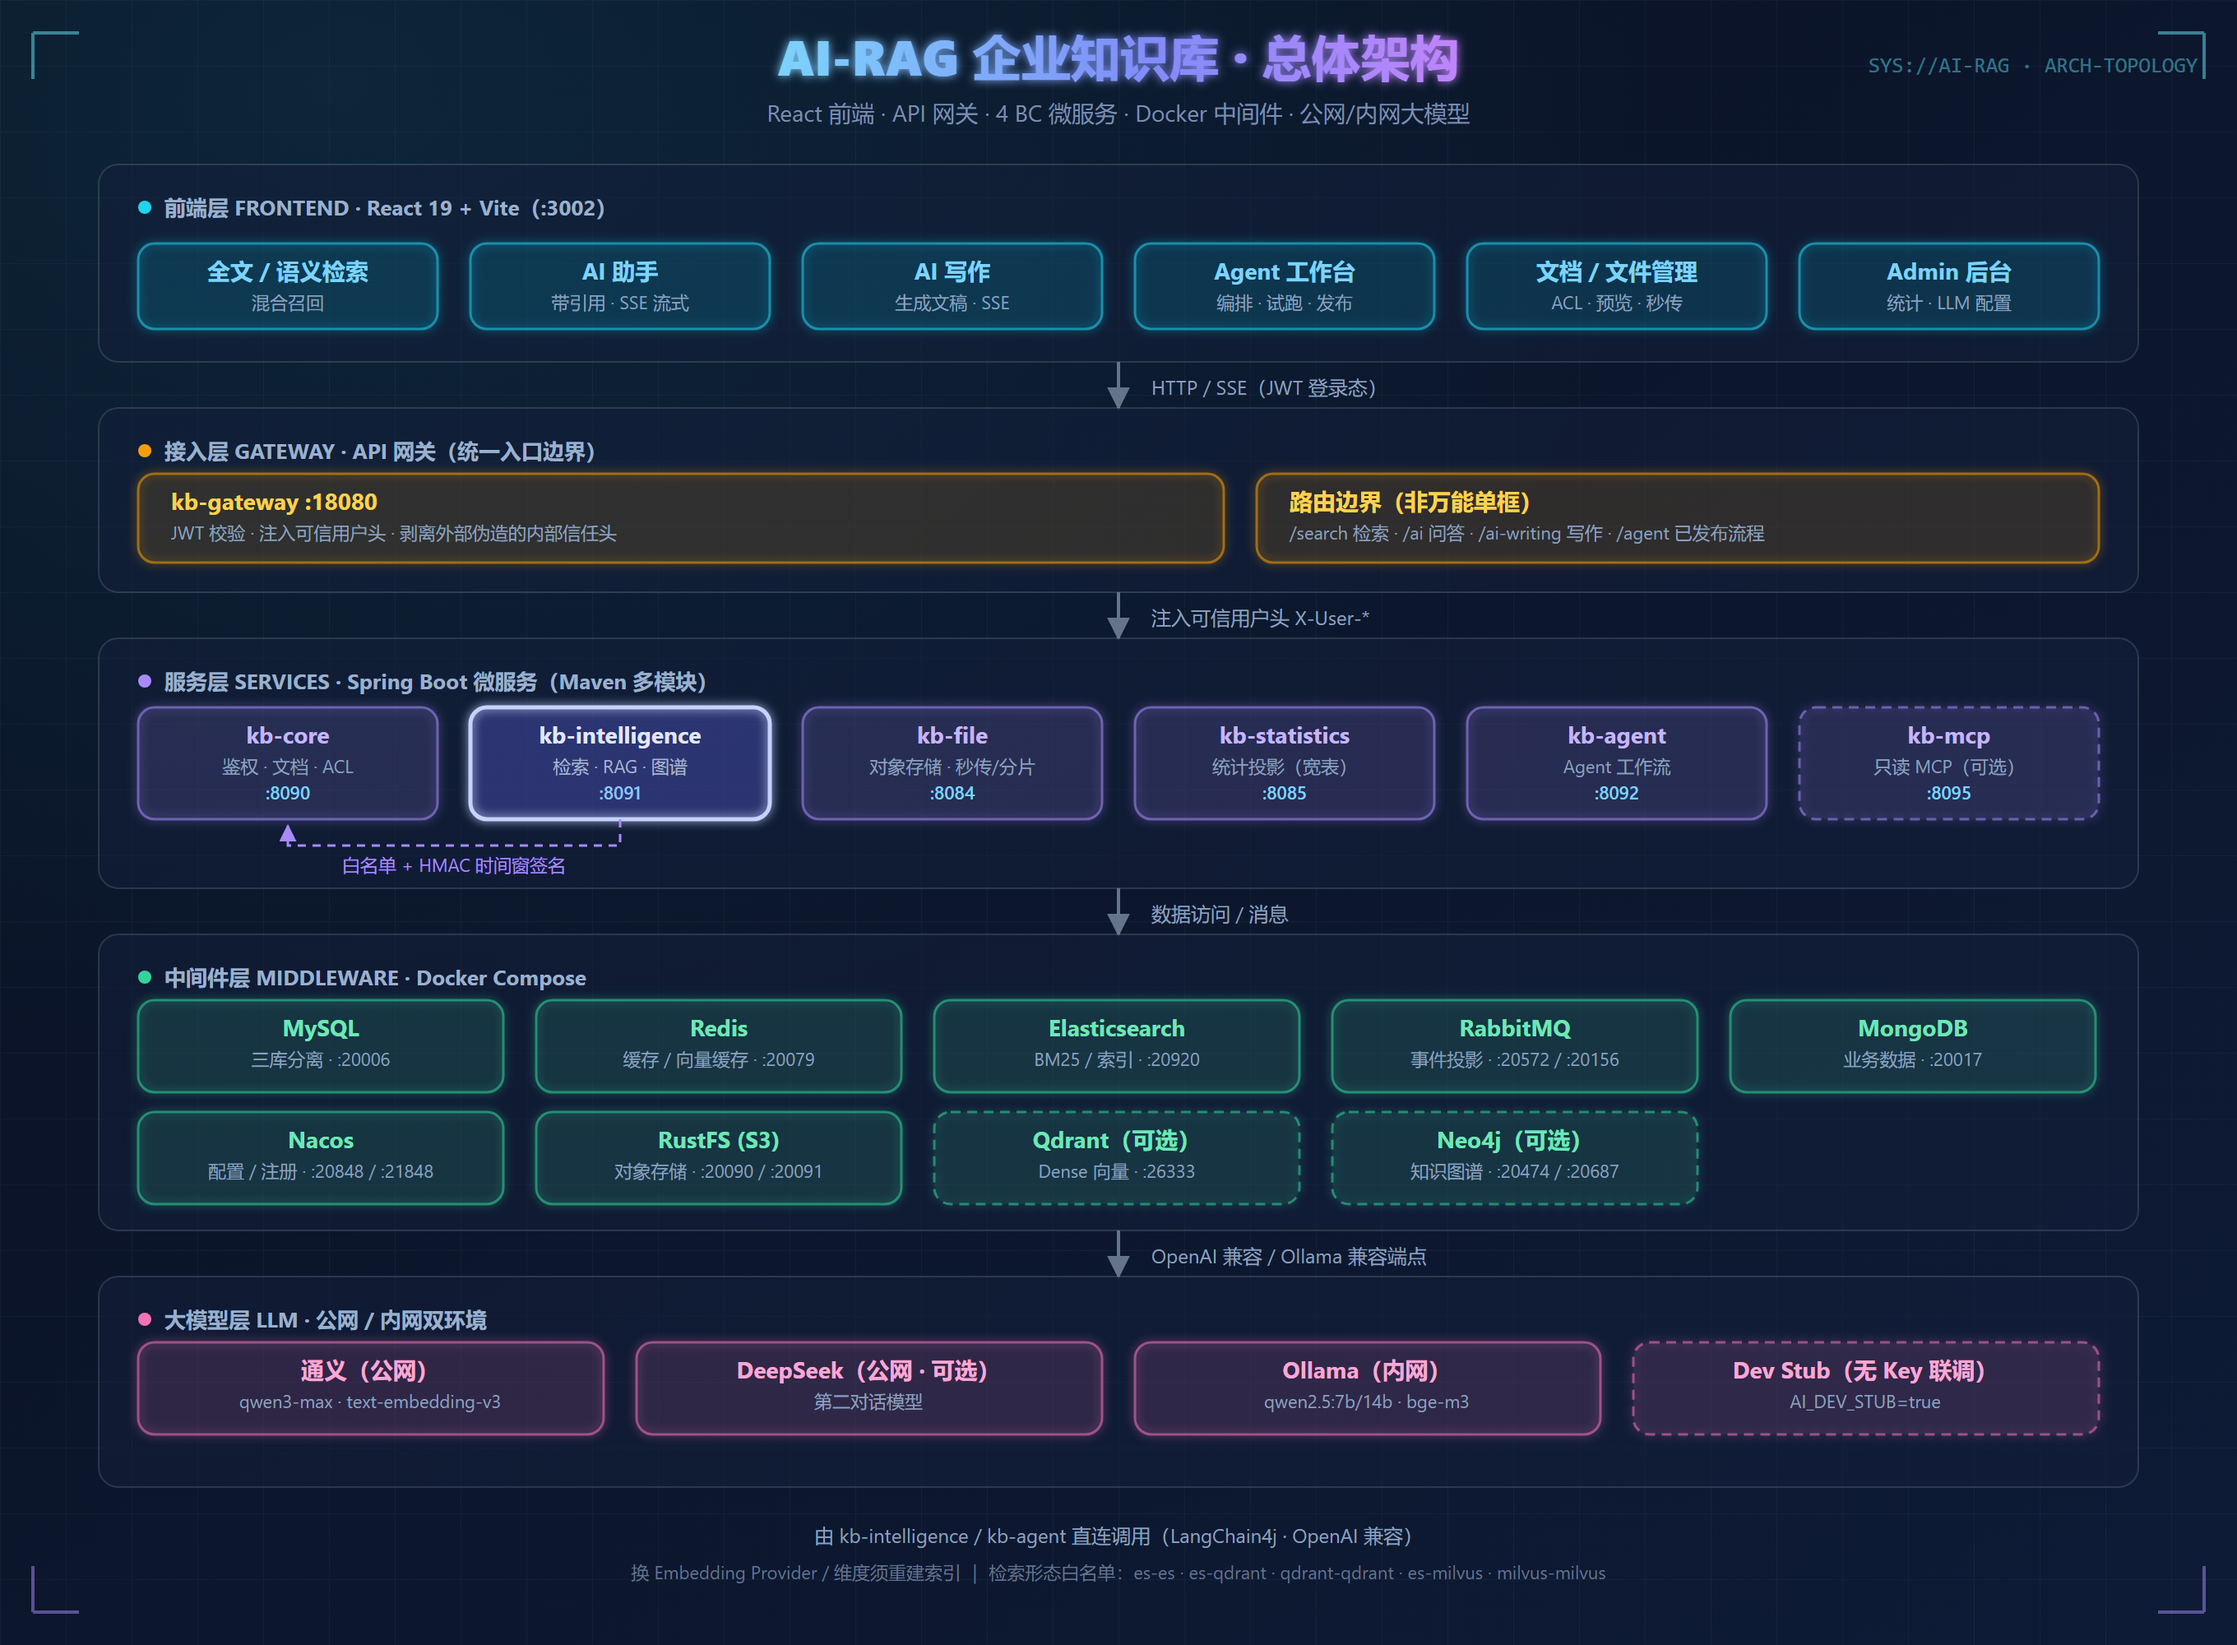
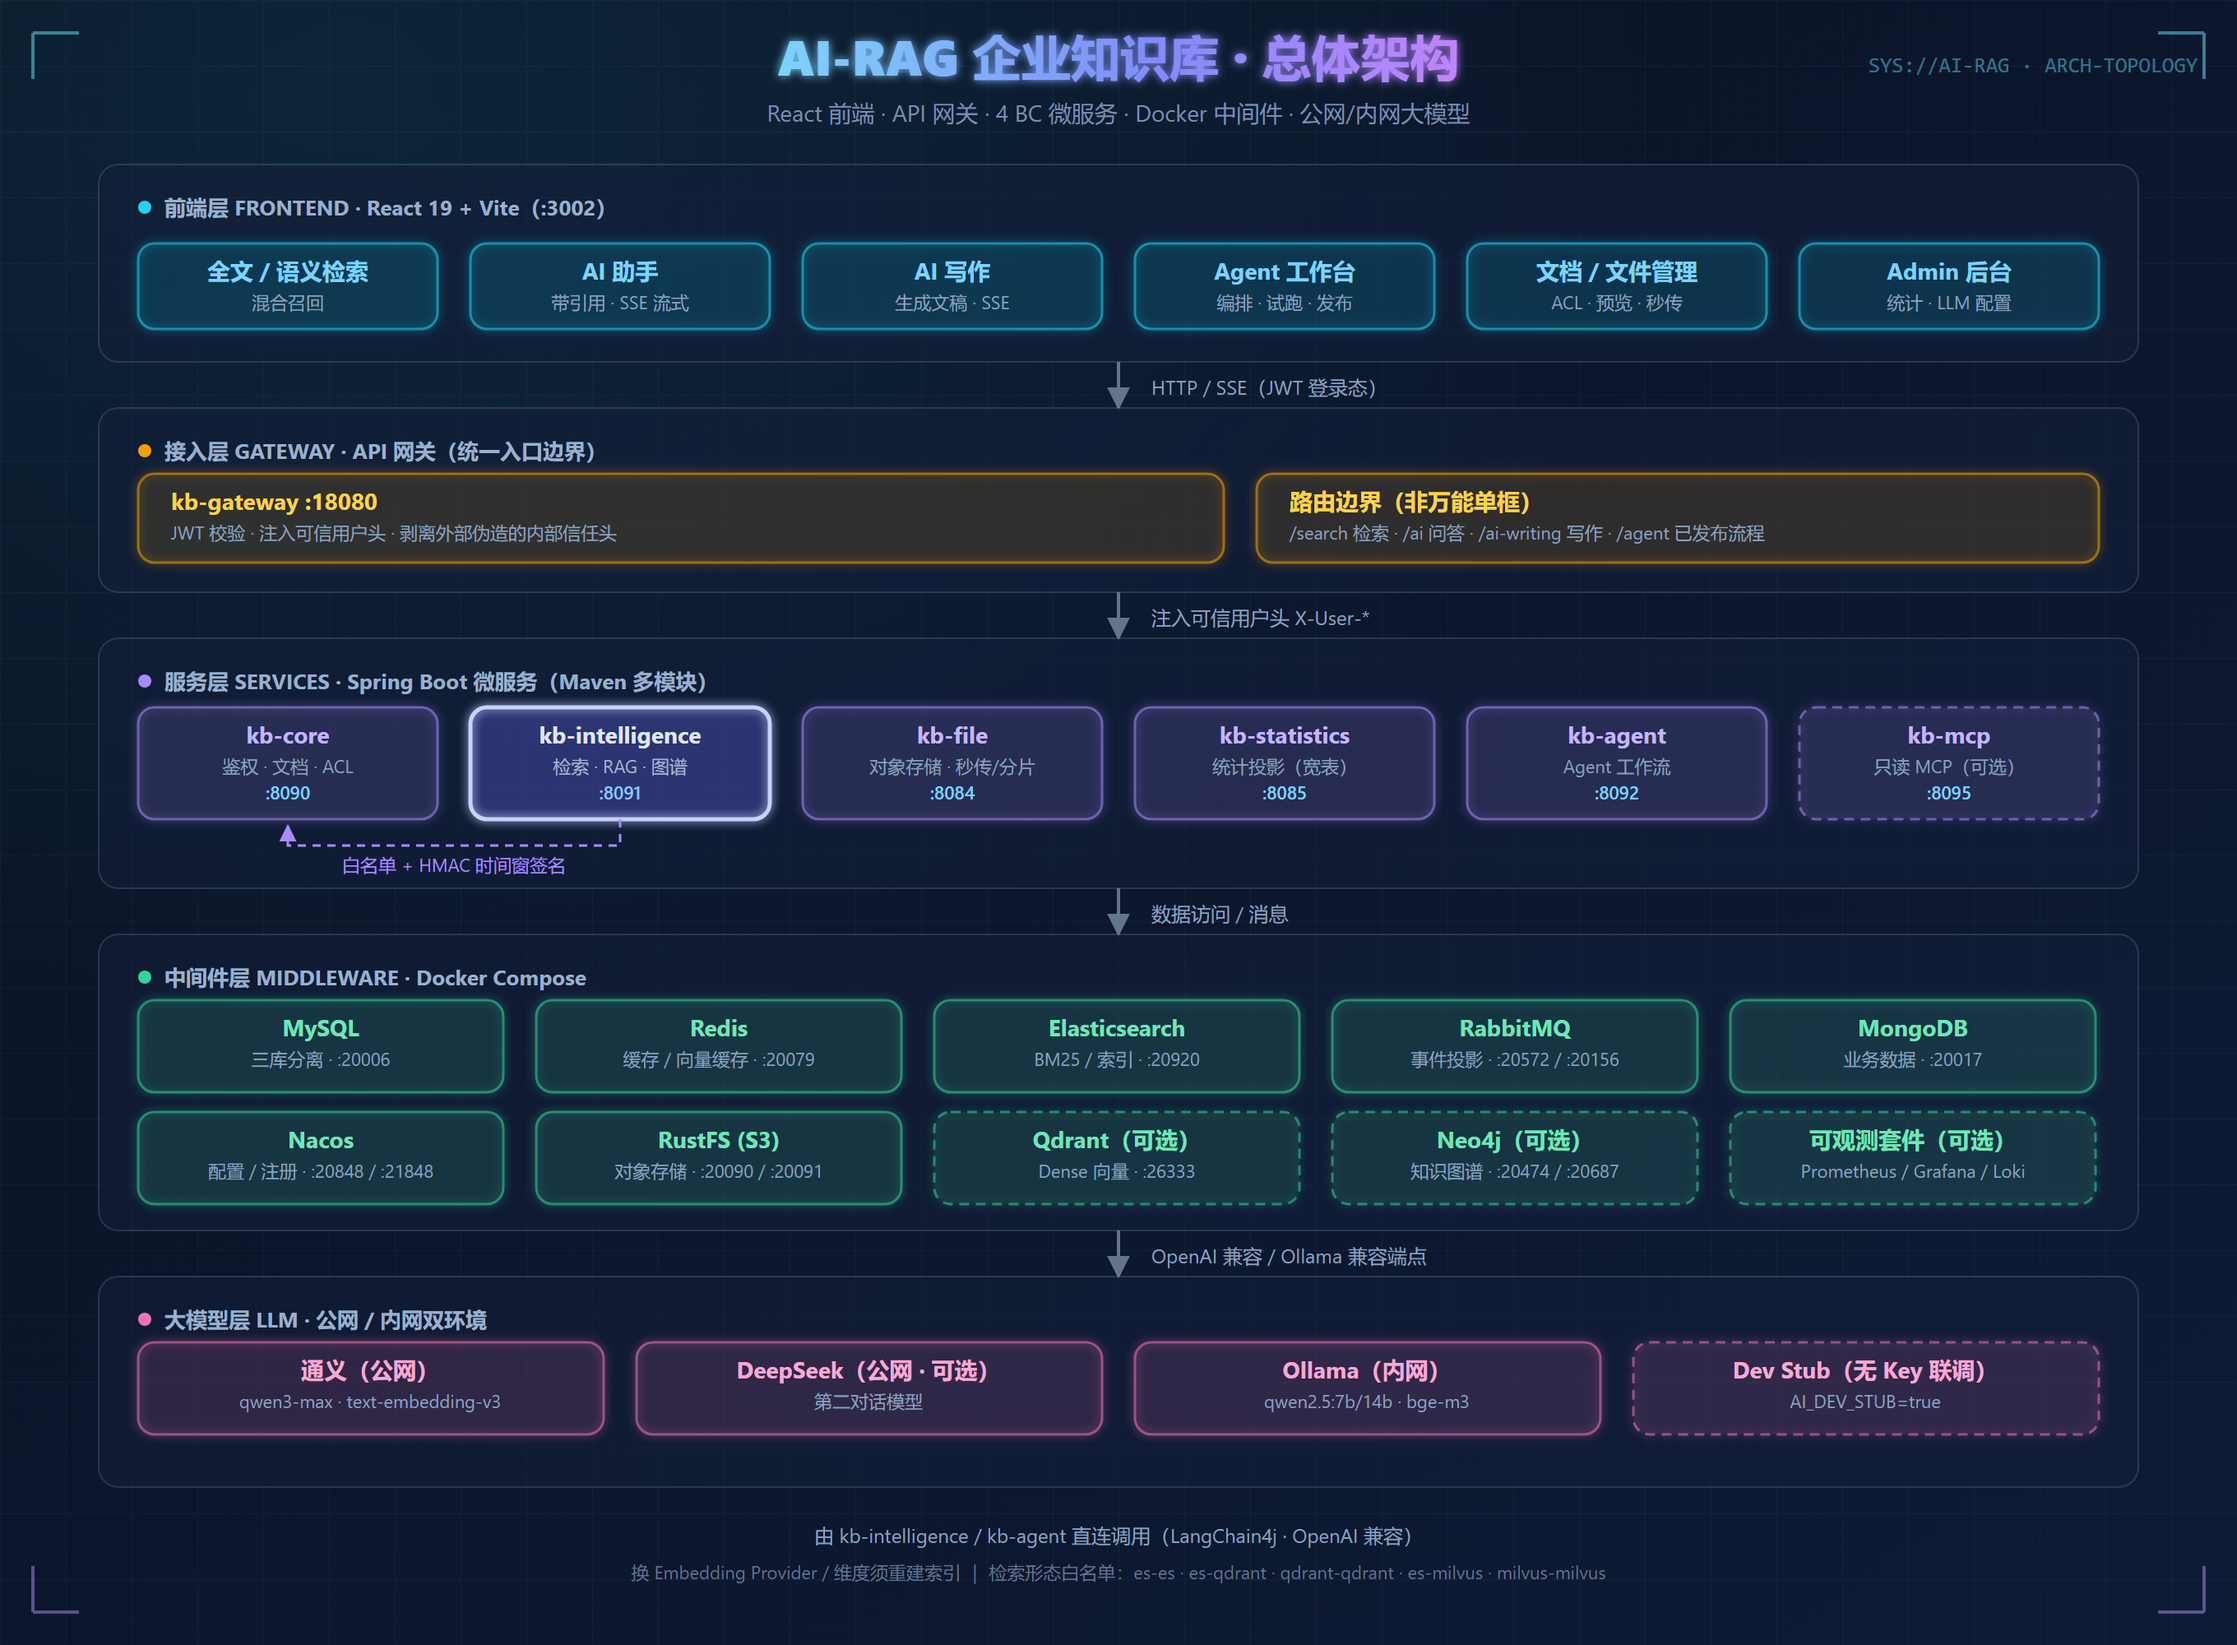
docs: 架构图同步可观测性 —— 总体架构补可观测套件、部署拓扑补 SkyWalking/Prometheus/Grafana/Loki 端口，README 端口表与能力清单同步

Changed region(s): [[0.75, 0.651, 0.9375, 0.744]]

diff --git a/readme.md b/readme.md
@@ -238,6 +238,7 @@ docker compose --profile observability --env-file .env up -d
 | Neo4j（可选） | **20474** / Bolt **20687** | neo4j；图谱可重建 |
 | Qdrant（可选） | HTTP **26333** / gRPC **26334** | 默认不随 setup 强制启动 |
 | SkyWalking（可选 APM） | OAP **11800** / HTTP **12800** · UI **38080** | 链路追踪；启用方式见[核心能力详解](#-核心能力详解) |
+| Prometheus / Grafana（observability） | **29090** / **23000**（Loki 无宿主端口） | 指标、仪表盘与告警；Alloy 采集容器日志入 Loki |
 
 > 完整端口、账号与全栈 Docker 说明见 [deploy/README.md](deploy/README.md)。
 
@@ -279,6 +280,7 @@ docker compose --profile observability --env-file .env up -d
   cd deploy; docker compose --env-file .env up -d skywalking-oap skywalking-ui
   # 3. 用 Dockerfile.backend 重建业务镜像并重启服务，UI 访问 http://127.0.0.1:38080
   ```
+- **可选监控**：observability profile 一键启用 Prometheus + Grafana（指标 / 仪表盘 / 邮件告警）与 Loki + Alloy（容器日志聚合），见[第9阶段计划](docs/第9阶段-可观测性与交付收口计划.md)
 - **可选**：Qdrant 旁路双写 + ES BM25 混合检索（见 [deploy/README.md](deploy/README.md)）
 
 ## 🧪 联调冒烟
